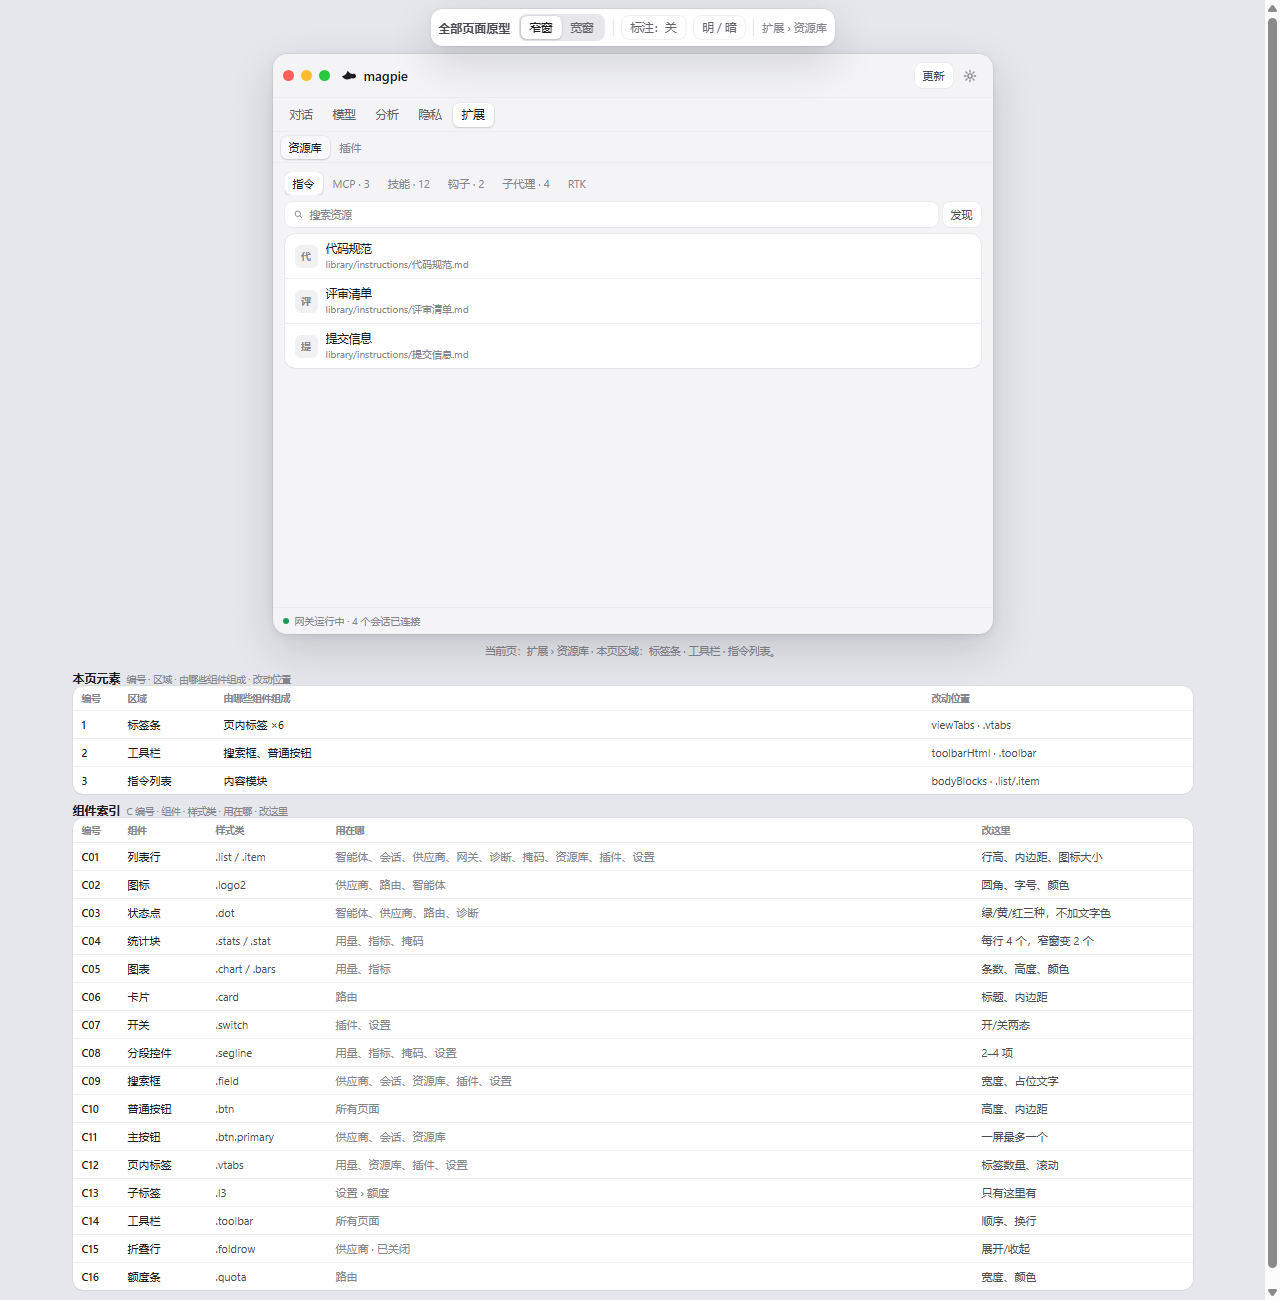
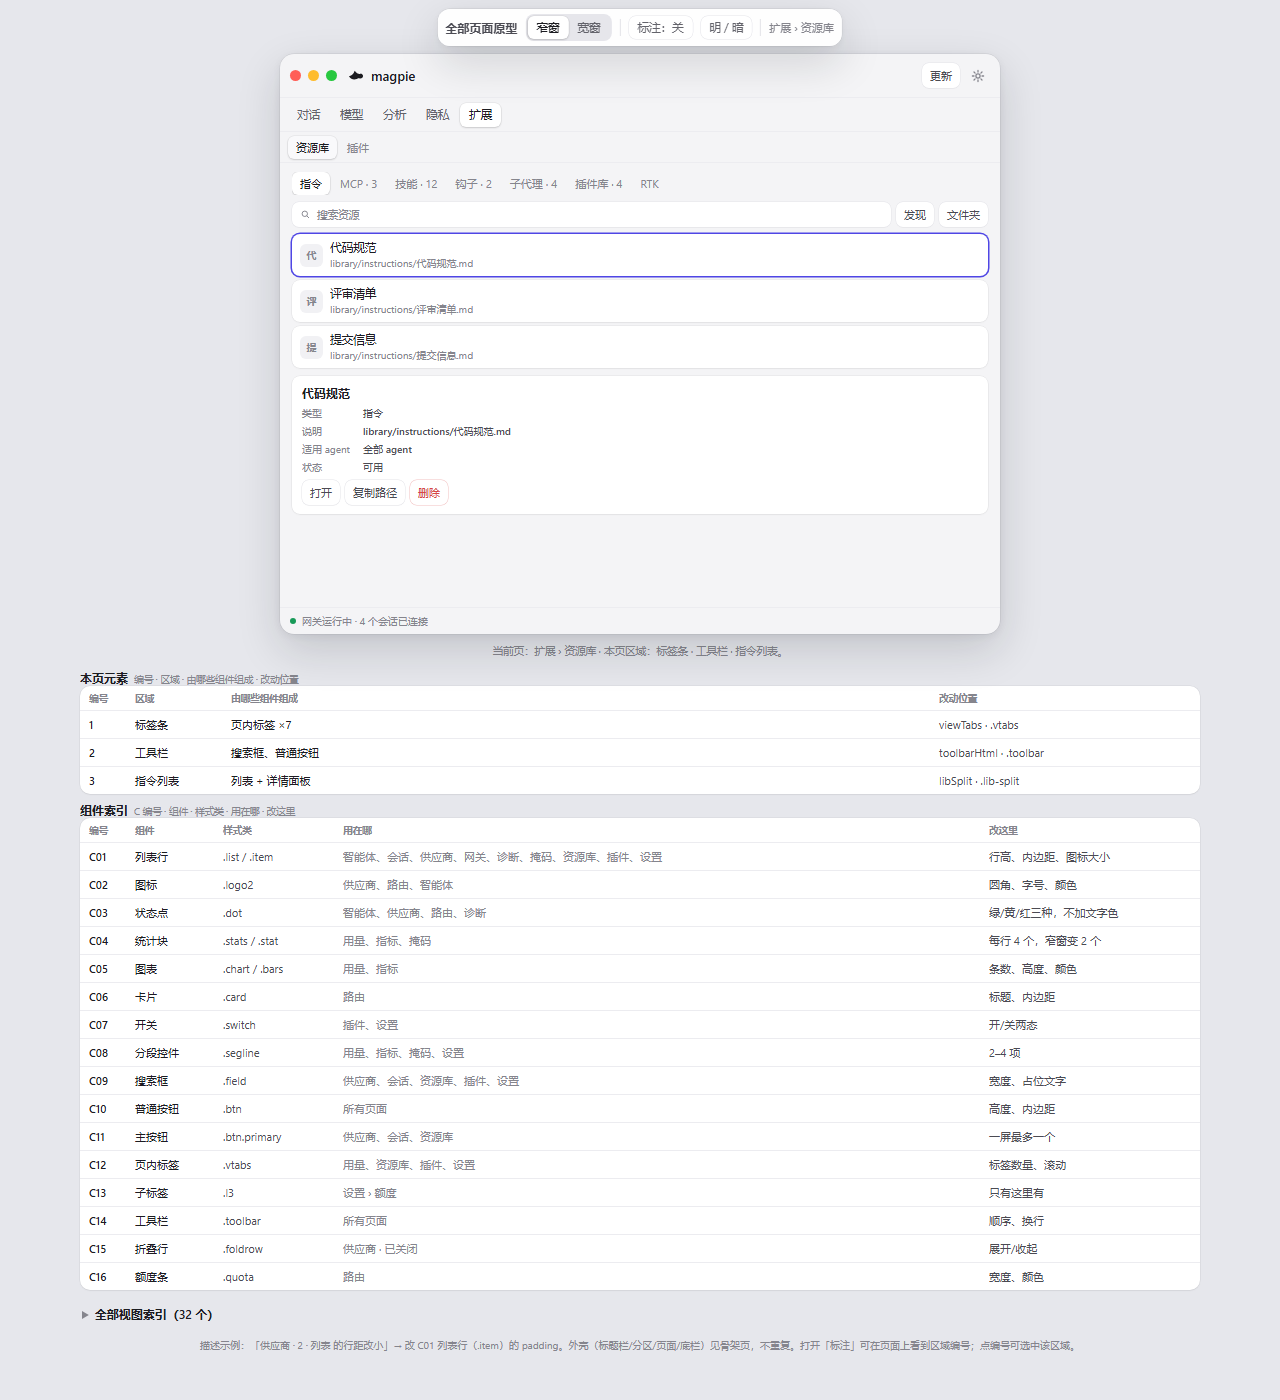
prototypes: an agent plugin library, and library rows with details

Changed region(s): [[0.0312, 0.0, 0.9375, 1.0], [0.9688, 0.0, 1.0, 0.9846]]

diff --git a/workspace/附属产物/nav-refactor/all-pages.html b/workspace/附属产物/nav-refactor/all-pages.html
@@ -143,6 +143,21 @@ button{font:inherit;color:inherit;background:none;border:0;cursor:default;appear
 .bars i{flex:1;border-radius:3px 3px 1px 1px;background:var(--accent);opacity:.85;min-height:3px}
 .bars i:nth-child(3n){opacity:.5}
 
+.lib-split{display:grid;grid-template-columns:1.05fr 1fr;gap:8px}
+.win.narrow .lib-split{grid-template-columns:1fr}
+.lib-list{display:flex;flex-direction:column;gap:4px}
+.lib-item{display:flex;align-items:center;gap:7px;padding:6px 8px;background:var(--card);border-radius:8px;box-shadow:var(--shadow-sm);width:100%;text-align:left}
+.lib-item.on{box-shadow:0 0 0 1.5px var(--accent),var(--shadow-sm)}
+.lib-item .who{flex:1;min-width:0}
+.lib-item .nm,.lib-item .sub{display:block}
+.lib-detail{background:var(--card);border-radius:8px;box-shadow:var(--shadow-sm);padding:9px 10px;display:flex;flex-direction:column;gap:4px;min-width:0}
+.det-h{font-size:12px;font-weight:600;margin-bottom:1px}
+.det-row{display:flex;gap:7px;font-size:10px;line-height:1.4}
+.det-row span{width:54px;color:var(--muted);flex:none}
+.det-row b{font-weight:500;color:var(--fg-2);word-break:break-all}
+.det-row b.mono{font-family:ui-monospace,Consolas,monospace;font-size:9px}
+.rowbtns{display:flex;gap:5px;flex-wrap:wrap;margin-top:2px}
+.btn.danger{color:var(--red);box-shadow:0 0 0 .5px color-mix(in srgb,var(--red) 35%,transparent)}
 .cols{display:grid;grid-template-columns:1.2fr 1fr;gap:7px}
 .win.narrow .cols{grid-template-columns:1fr}
 .card{background:var(--card);border-radius:9px;box-shadow:var(--shadow-sm);overflow:hidden}
@@ -215,7 +230,7 @@ button{font:inherit;color:inherit;background:none;border:0;cursor:default;appear
   <div><h3>本页元素<span class="tag">编号 · 区域 · 由哪些组件组成 · 改动位置</span></h3><section class="uses" id="pageSpec"></section></div>
   <div><h3>组件索引<span class="tag">C 编号 · 组件 · 样式类 · 用在哪 · 改这里</span></h3><section class="uses" id="compIndex"></section></div>
 </div>
-<details class="index"><summary>全部视图索引（31 个）</summary><section class="uses" id="allIndex"></section></details>
+<details class="index"><summary>全部视图索引（32 个）</summary><section class="uses" id="allIndex"></section></details>
 <p class="spec-hint" id="specHint">描述示例：「供应商 · 2 · 列表 的行距改小」→ 改 C01 列表行（.item）的 padding。外壳（标题栏/分区/页面/底栏）见骨架页，不重复。打开「标注」可在页面上看到区域编号；点编号可选中该区域。</p>
 
 <script>
@@ -258,7 +273,7 @@ const PAGES = {
   metrics:{name:'指标',icon:'gauge',kind:'metrics',period:['今天','7 天','30 天'],buttons:['刷新']},
   doctor:{name:'诊断',icon:'doctor',kind:'doctor',buttons:['检查','刷新']},
   masking:{name:'掩码',icon:'shield',kind:'masking',period:['7 天','30 天'],buttons:['刷新']},
-  library:{name:'资源库',icon:'library',kind:'library',tabs:['指令','MCP · 3','技能 · 12','钩子 · 2','子代理 · 4','RTK'],search:'搜索资源',buttons:['发现']},
+  library:{name:'资源库',icon:'library',kind:'library',tabs:['指令','MCP · 3','技能 · 12','钩子 · 2','子代理 · 4','插件库 · 4','RTK'],search:'搜索资源',buttons:['发现','文件夹']},
   plugins:{name:'插件',icon:'plug',kind:'plugins',tabs:['内置','发现','已安装 · 3'],search:'搜索插件',buttons:[]},
   settings:{name:'设置',icon:'gear',kind:'settings',tabs:['通用','额度','网络与共享','模型','隐私','可观测','同步与备份','插件','关于'],search:'查找设置',buttons:[]},
 };
@@ -334,7 +349,7 @@ const SPEC_INFO = {
     '掩码列表':['列表行 ×3','listRows · .item'],
   },
   library:{
-    '标签条':['页内标签 ×6','viewTabs · .vtabs'],
+    '标签条':['页内标签 ×7','viewTabs · .vtabs'],
     '工具栏':['搜索框、普通按钮','toolbarHtml · .toolbar'],
     '列表':['列表行 ×3','listRows · .item'],
   },
@@ -372,7 +387,7 @@ const COMPONENTS = [
 const state = {
   frame:'narrow', section:'model', page:'providers', theme:'light',
   tabs:{usage:'概览',library:'指令',plugins:'内置',settings:'额度'}, l3:'全部',
-  spec:false, sel:null,
+  spec:false, sel:null, libSel:0,
 };
 const qs = new URLSearchParams(location.search);
 if(qs.get('f')==='wide' || qs.get('f')==='narrow') state.frame = qs.get('f');
@@ -622,6 +637,51 @@ function installedList(){
     ['web-search','v0.3.1',false],
   ].map(([n,v,on])=>`<div class="item"><div class="who"><div class="nm">${n}</div><div class="sub">${v}</div></div><span class="switch${on?' on':''}"></span></div>`).join('')}</div>`];
 }
+const PLUGINLIB = [
+  {short:'code-review', agent:'Claude Code', src:'github.com/anthropics/claude-plugins', v:'1.4.0', path:'~/.claude/plugins/cache/code-review', on:true, color:'#d97757'},
+  {short:'chrome', agent:'Codex', src:'marketplace/codex', v:'0.9.2', path:'~/.codex/plugins/chrome', on:true, color:'#10a37f'},
+  {short:'search', agent:'Gemini CLI', src:'npm/@gemini/plugin-search', v:'2.1.1', path:'~/.gemini/plugins/search', on:false, color:'#4285f4'},
+  {short:'pdf', agent:'Claude Code', src:'github.com/anthropics/claude-plugins', v:'1.2.3', path:'~/.claude/plugins/cache/pdf', on:true, color:'#d97757'},
+];
+function pluginLibBody(){
+  const sel = Math.min(state.libSel || 0, PLUGINLIB.length - 1);
+  const it = PLUGINLIB[sel];
+  return [`<div class="lib-split">
+    <div class="lib-list">${PLUGINLIB.map((x,i)=>`<button class="lib-item${i===sel?' on':''}" data-libsel="${i}">
+      <span class="logo2" style="background:${x.color}">${x.short[0].toUpperCase()}</span>
+      <span class="who"><span class="nm">${x.short}</span><span class="sub">${x.agent} · v${x.v}</span></span>
+      <span class="switch${x.on?' on':''}"></span>
+    </button>`).join('')}</div>
+    <div class="lib-detail">
+      <div class="det-h">${it.short}</div>
+      <div class="det-row"><span>适用 agent</span><b>${it.agent}</b></div>
+      <div class="det-row"><span>来源</span><b>${it.src}</b></div>
+      <div class="det-row"><span>版本</span><b>v${it.v}</b></div>
+      <div class="det-row"><span>位置</span><b class="mono">${it.path}</b></div>
+      <div class="det-row"><span>状态</span><b>${it.on?'已启用':'已停用'}</b></div>
+      <div class="rowbtns"><button class="btn">打开目录</button><button class="btn">更新</button><button class="btn danger">卸载</button></div>
+    </div>
+  </div>`];
+}
+function libSplit(kind, typeName){
+  const rows = ROWS[kind] || [];
+  const sel = Math.min(state.libSel || 0, Math.max(0, rows.length - 1));
+  const it = rows[sel] || ['—','',''];
+  return [`<div class="lib-split">
+    <div class="lib-list">${rows.map(([n,s,m,c],i)=>`<button class="lib-item${i===sel?' on':''}" data-libsel="${i}">
+      ${c?`<span class="logo2" style="background:${c}">${n[0]}</span>`:`<span class="logo2" style="background:var(--pill);color:var(--muted)">${n[0]}</span>`}
+      <span class="who"><span class="nm">${n}</span><span class="sub">${s||m||''}</span></span>
+    </button>`).join('')}</div>
+    <div class="lib-detail">
+      <div class="det-h">${it[0]}</div>
+      <div class="det-row"><span>类型</span><b>${typeName}</b></div>
+      <div class="det-row"><span>说明</span><b>${it[1]||it[2]||'—'}</b></div>
+      <div class="det-row"><span>适用 agent</span><b>全部 agent</b></div>
+      <div class="det-row"><span>状态</span><b>可用</b></div>
+      <div class="rowbtns"><button class="btn">打开</button><button class="btn">复制路径</button><button class="btn danger">删除</button></div>
+    </div>
+  </div>`];
+}
 const TAB_BODIES = {
   usage:{
     '概览': () => [statsHtml(), chartHtml()],
@@ -631,12 +691,13 @@ const TAB_BODIES = {
     '榜单': () => [listRows('rank')],
   },
   library:{
-    '指令': () => [listRows('library')],
-    'MCP · 3': () => [listRows('mcp')],
-    '技能 · 12': () => [listRows('skills')],
-    '钩子 · 2': () => [listRows('hooks')],
-    '子代理 · 4': () => [listRows('subagents')],
-    'RTK': () => [listRows('rtk')],
+    '指令': () => [libSplit('library','指令')],
+    'MCP · 3': () => [`<div class="optbar" style="margin-bottom:6px"><div class="segline"><button class="segbtn on">Agents</button><button class="segbtn">其它应用</button></div></div>` + libSplit('mcp','MCP 服务器')[0]],
+    '技能 · 12': () => [libSplit('skills','技能')],
+    '钩子 · 2': () => [libSplit('hooks','钩子')],
+    '子代理 · 4': () => [libSplit('subagents','子代理')],
+    '插件库 · 4': () => pluginLibBody(),
+    'RTK': () => [`<div class="optbar" style="margin-bottom:6px"><div class="segline"><button class="segbtn on">30 天</button><button class="segbtn">90 天</button><button class="segbtn">全部</button></div></div>` + libSplit('rtk','RTK')[0]],
   },
   plugins:{
     '内置': () => [switchList()],
@@ -657,7 +718,7 @@ const TAB_BODIES = {
 };
 const TAB_BODY_NAMES = {
   usage:{'概览':['统计块','图表'],'请求':['请求列表'],'会话':['会话列表'],'上下文':['上下文卡片'],'榜单':['榜单列表']},
-  library:{'指令':['指令列表'],'MCP · 3':['MCP 列表'],'技能 · 12':['技能列表'],'钩子 · 2':['钩子列表'],'子代理 · 4':['子代理列表'],'RTK':['RTK 列表']},
+  library:{'指令':['指令列表'],'MCP · 3':['MCP 列表'],'技能 · 12':['技能列表'],'钩子 · 2':['钩子列表'],'子代理 · 4':['子代理列表'],'插件库 · 4':['插件库'],'RTK':['RTK 列表']},
   plugins:{'内置':['开关列表'],'发现':['发现列表'],'已安装 · 3':['已安装列表']},
   settings:{'通用':['设置行'],'额度':['设置行'],'网络与共享':['设置行'],'模型':['设置行'],'隐私':['设置行'],'可观测':['设置行'],'同步与备份':['设置行'],'插件':['设置行'],'关于':['设置行']},
 };
@@ -669,11 +730,13 @@ const TAB_SPEC = {
     '榜单列表':['列表行 ×4','listRows · .item'],
   },
   library:{
-    'MCP 列表':['列表行 ×3','listRows · .item'],
-    '技能列表':['列表行 ×3','listRows · .item'],
-    '钩子列表':['列表行 ×2','listRows · .item'],
-    '子代理列表':['列表行 ×3','listRows · .item'],
-    'RTK 列表':['列表行 ×2','listRows · .item'],
+    '指令列表':['列表 + 详情面板','libSplit · .lib-split'],
+    'MCP 列表':['Agents/其它应用 + 列表 + 详情面板','libSplit · .lib-split'],
+    '技能列表':['列表 + 详情面板','libSplit · .lib-split'],
+    '钩子列表':['列表 + 详情面板','libSplit · .lib-split'],
+    '子代理列表':['列表 + 详情面板','libSplit · .lib-split'],
+    '插件库':['列表 + 详情面板','pluginLibBody · .lib-split'],
+    'RTK 列表':['范围 + 列表 + 详情面板','libSplit · .lib-split'],
   },
   plugins:{
     '发现列表':['列表行 ×3、普通按钮','discoverList · .item/.btn'],
@@ -802,22 +865,24 @@ function renderStage(){
 stage.addEventListener('click', e=>{
   const h = e.target.closest('.spec-head');
   if(h){ state.sel = {n:+h.dataset.rn, name:h.dataset.rname}; renderStage(); return; }
+  const ls = e.target.closest('[data-libsel]');
+  if(ls){ state.libSel = +ls.dataset.libsel; renderStage(); return; }
   const s = e.target.closest('[data-sec]');
   if(s){
     const sec = SECTIONS.find(x=>x.id===s.dataset.sec);
-    state.section = sec.id; state.page = sec.pages[0]; state.sel = null; renderStage(); return;
+    state.section = sec.id; state.page = sec.pages[0]; state.sel = null; state.libSel = 0; renderStage(); return;
   }
   const p = e.target.closest('[data-page]');
   if(p){
     state.page = p.dataset.page;
     const sec = sectionOf(state.page);
     if(sec) state.section = sec.id;
-    state.sel = null; renderStage(); return;
+    state.sel = null; state.libSel = 0; renderStage(); return;
   }
   const v = e.target.closest('[data-vtab]');
-  if(v){ state.tabs[state.page] = v.dataset.vtab; state.sel = null; renderStage(); return; }
+  if(v){ state.tabs[state.page] = v.dataset.vtab; state.sel = null; state.libSel = 0; renderStage(); return; }
   const l = e.target.closest('[data-l3]');
-  if(l){ state.l3 = l.dataset.l3; state.sel = null; renderStage(); }
+  if(l){ state.l3 = l.dataset.l3; state.sel = null; state.libSel = 0; renderStage(); }
 });
 function renderAllIndex(){
   const rows = [];

diff --git a/workspace/附属产物/nav-refactor/index.html b/workspace/附属产物/nav-refactor/index.html
@@ -93,8 +93,8 @@ td .f{font-size:9.5px;color:var(--muted)}
       </a>
       <a class="entry" href="all-pages.html">
         <span class="n">② 页面</span>
-        <b>全部页面（31 个视图）</b>
-        <span class="d">11 个页面 + 23 个页内视图，带区域标注</span>
+        <b>全部页面（32 个视图）</b>
+        <span class="d">11 个页面 + 24 个页内视图，带区域标注</span>
         <span class="pill now">当前</span>
       </a>
       <a class="entry" href="overlays.html">
@@ -120,7 +120,7 @@ td .f{font-size:9.5px;color:var(--muted)}
       <div class="step ok"><span class="v">v3 定稿</span><a href="framework-layers.html"><b>四层框架</b></a><span class="s">层级定义</span></div>
       <div class="step prop"><span class="v">v4 提案</span><a href="grouping-options.html"><b>分组 A/B/C</b></a><span class="s">还没确认</span></div>
       <div class="step"><span class="v">v5 当前</span><a href="skeleton-components.html"><b>骨架 = 组件</b></a><span class="s">外壳 + 组件库</span></div>
-      <div class="step"><span class="v">v6 当前</span><a href="all-pages.html"><b>31 个视图</b></a><span class="s">页面 + 区域标注</span></div>
+      <div class="step"><span class="v">v6 当前</span><a href="all-pages.html"><b>32 个视图</b></a><span class="s">页面 + 区域标注</span></div>
       <div class="step"><span class="v">v7 当前</span><a href="overlays.html"><b>16 个浮层</b></a><span class="s">弹窗 + 全界面清单</span></div>
     </div>
   </div>
@@ -131,7 +131,7 @@ td .f{font-size:9.5px;color:var(--muted)}
       <thead><tr><th>文件</th><th>状态</th><th>是什么</th><th>规模 / 说明</th></tr></thead>
       <tbody>
         <tr><td><a href="skeleton-components.html">skeleton-components.html</a></td><td><span class="pill ok">当前</span></td><td>骨架与通用组件</td><td>外壳 + 4 导航组件 + 11 内容组件<br><span class="f">骨架宽/窄、明暗</span></td></tr>
-        <tr><td><a href="all-pages.html">all-pages.html</a></td><td><span class="pill now">当前</span></td><td>全部页面与页内视图</td><td>31 个视图 + 每页元素表 + 31 行总索引<br><span class="f">顶部可开「标注」</span></td></tr>
+        <tr><td><a href="all-pages.html">all-pages.html</a></td><td><span class="pill now">当前</span></td><td>全部页面与页内视图</td><td>32 个视图 + 每页元素表 + 32 行总索引<br><span class="f">顶部可开「标注」</span></td></tr>
         <tr><td><a href="overlays.html">overlays.html</a></td><td><span class="pill now">当前</span></td><td>弹窗与浮层</td><td>30 个 + 33 行全界面清单<br><span class="f">含托盘、手机、外部流程说明</span></td></tr>
         <tr><td><a href="framework-layers.html">framework-layers.html</a></td><td><span class="pill ok">定稿</span></td><td>四层导航框架</td><td>一级 5 分区 / 二级页面 / 三级标签 / 四级工具栏<br><span class="f">外壳已定，不再改</span></td></tr>
         <tr><td><a href="grouping-options.html">grouping-options.html</a></td><td><span class="pill prop">提案</span></td><td>导航分组 A/B/C</td><td>3 套分组方案，尚未确认<br><span class="f">等选 A / B / C</span></td></tr>

diff --git a/workspace/附属产物/nav-refactor/overlays.html b/workspace/附属产物/nav-refactor/overlays.html
@@ -519,11 +519,11 @@ td:first-child{font-weight:500}
 
 <section>
   <h2>全界面清单</h2>
-  <p class="lead">页面 31 个在 all-pages.html；弹窗/浮层 30 个在本页；特殊形态 5 个。</p>
+  <p class="lead">页面 32 个在 all-pages.html；弹窗/浮层 30 个在本页；特殊形态 5 个。</p>
   <table>
     <thead><tr><th>类别</th><th>界面</th><th>状态</th></tr></thead>
     <tbody>
-      <tr><td>页面 / 视图</td><td>11 个页面 + 23 个页内视图 = 31 个</td><td>已画（all-pages.html）</td></tr>
+      <tr><td>页面 / 视图</td><td>11 个页面 + 24 个页内视图 = 32 个</td><td>已画（all-pages.html）</td></tr>
       <tr><td>供应商</td><td>行展开</td><td>已画 1</td></tr>
       <tr><td>供应商</td><td>添加供应商 sheet</td><td>已画 2</td></tr>
       <tr><td>供应商</td><td>行右键菜单</td><td>已画 3</td></tr>

diff --git a/workspace/附属产物/nav-refactor/README.md b/workspace/附属产物/nav-refactor/README.md
@@ -51,16 +51,16 @@
 
 ## 全部页面 + 页内视图（都统一组件）
 
-`all-pages.html` 现在有 **11 个页面，展开为 31 个视图**（8 个单页 + 23 个页内视图）。点页内标签会真正换内容，不是只换高亮：
+`all-pages.html` 现在有 **11 个页面，展开为 32 个视图**（8 个单页 + 24 个页内视图）。点页内标签会真正换内容，不是只换高亮：
 
 - 用量 5：概览 / 请求 / 会话 / 上下文 / 榜单
 - 资源库 6：指令 / MCP / 技能 / 钩子 / 子代理 / RTK
 - 插件 3：内置 / 发现 / 已安装
 - 设置 9：通用 / 额度 / 网络与共享 / 模型 / 隐私 / 可观测 / 同步与备份 / 插件 / 关于
 
-每个视图都只用同一套组件；窗口下方的“本页元素”表会跟着当前标签变。23 个页内视图已逐个核对：区域名与表格行全部一致。
+每个视图都只用同一套组件；窗口下方的“本页元素”表会跟着当前标签变。24 个页内视图已逐个核对：区域名与表格行全部一致。
 
-截图：`page-*.png`（11 个页面）、`tab-<页面>-<序号>.png`（23 个视图）。
+截图：`page-*.png`（11 个页面）、`tab-<页面>-<序号>.png`（24 个视图）。
 
 列表型：智能体、会话、供应商、诊断、掩码、资源库
 卡片型：路由、网关
@@ -88,7 +88,7 @@
 
 ## 相关文件
 
-- `all-pages.html`：用这些组件拼出的 31 个视图（11 个页面 + 23 个页内视图）
+- `all-pages.html`：用这些组件拼出的 32 个视图（11 个页面 + 24 个页内视图）
 - `overlays.html`：30 个弹窗/浮层 + 全界面清单
 - `AUDIT.md`：检查与遗漏清单 + 布局方案 A–E
 - `framework-layers.html`：四层导航框架图（外壳定义）

diff --git a/workspace/附属产物/nav-refactor/MANIFEST.md b/workspace/附属产物/nav-refactor/MANIFEST.md
@@ -7,7 +7,7 @@
 | 文件 | 是什么 | 规模 | 备注 |
 |---|---|---|---|
 | `skeleton-components.html` | 骨架与通用组件 | 外壳 + 4 导航组件 + 11 内容组件 | 骨架宽/窄、明暗 |
-| `all-pages.html` | 全部页面与页内视图 | 31 个视图 + 每页元素表 + 31 行总索引 | 顶部可开「标注」 |
+| `all-pages.html` | 全部页面与页内视图 | 32 个视图 + 每页元素表 + 32 行总索引 | 顶部可开「标注」 |
 | `overlays.html` | 弹窗与浮层 | 30 个 + 33 行全界面清单 | 含托盘、手机、外部流程说明 |
 | `index.html` | 总览入口 | 4 个当前入口 + 版本关系 + 文件清单 | 本页 |
 | `AUDIT.md` | 检查与遗漏清单 | 缺口优先级 + 布局方案 A–E | 2026-11-16 |

diff --git a/workspace/附属产物/nav-refactor/AUDIT.md b/workspace/附属产物/nav-refactor/AUDIT.md
@@ -6,9 +6,9 @@
 
 | 项 | 结果 |
 |---|---|
-| 页面 / 视图 | 31 个（11 页面 + 23 页内视图） |
+| 页面 / 视图 | 32 个（11 页面 + 24 页内视图） |
 | 弹窗 / 浮层 | 30 个（已画）+ 33 行清单 |
-| 页内视图区域表 | 23 个逐个核对，区域名与表格一致 |
+| 页内视图区域表 | 24 个逐个核对，区域名与表格一致 |
 | 总览链接 | 9 个链接，缺失 0 |
 | 历史文件角标 | 3 个历史 + 1 个提案，均有角标 |
 | 并行会话 | 未暂存、未提交，工作区原样保留 |
